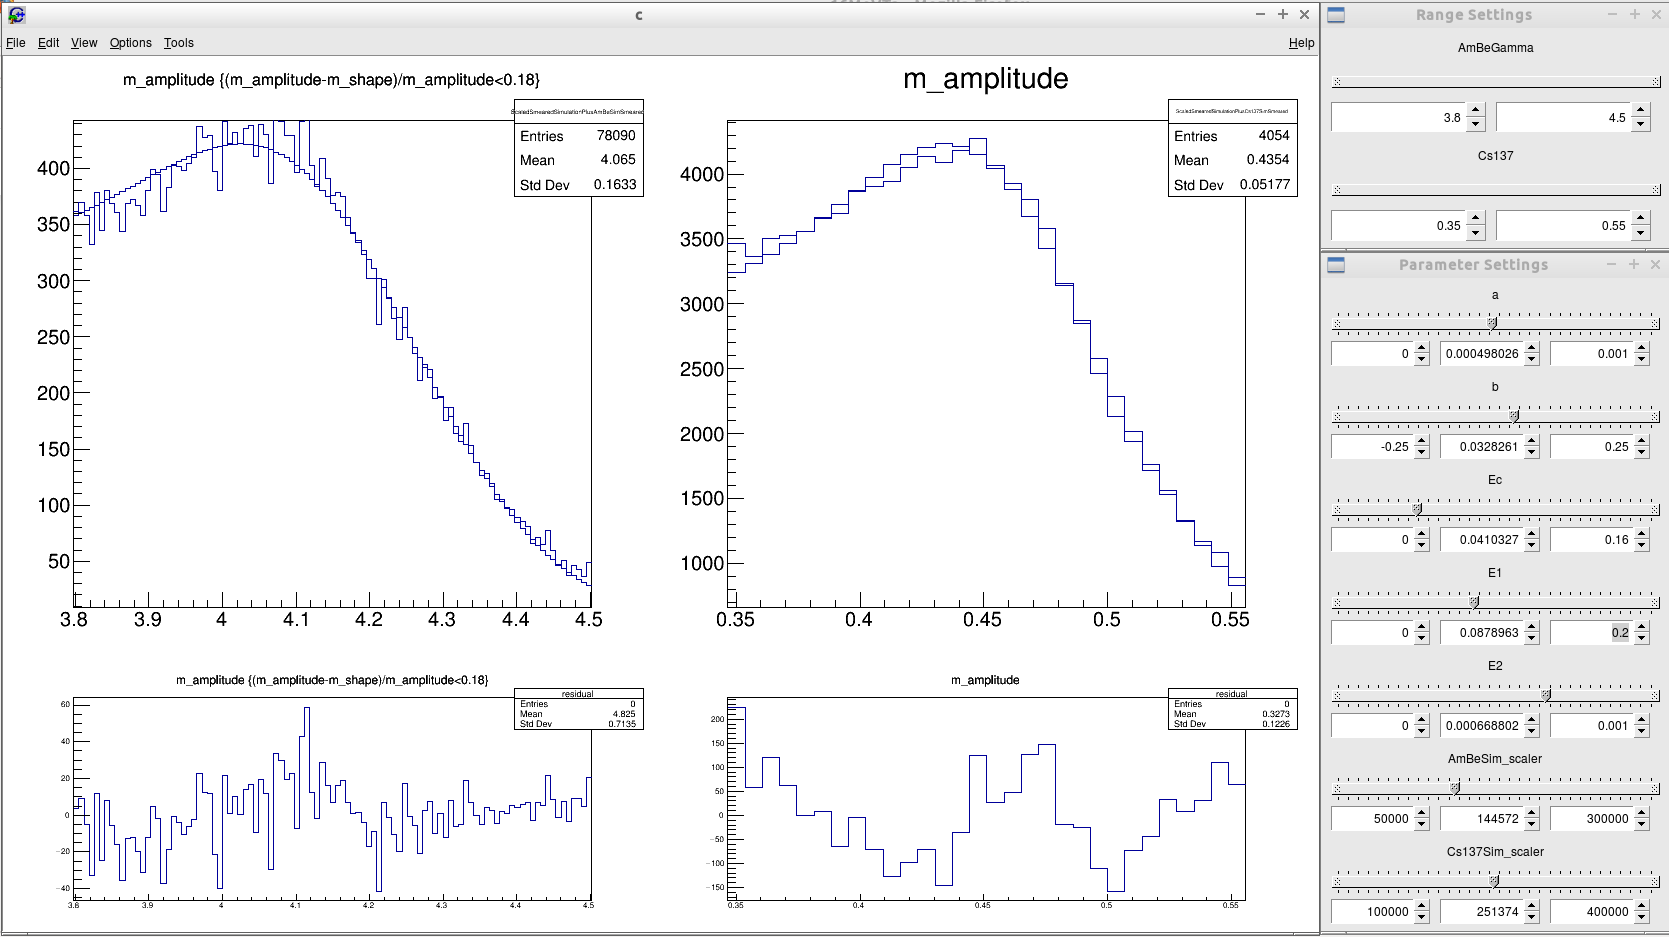
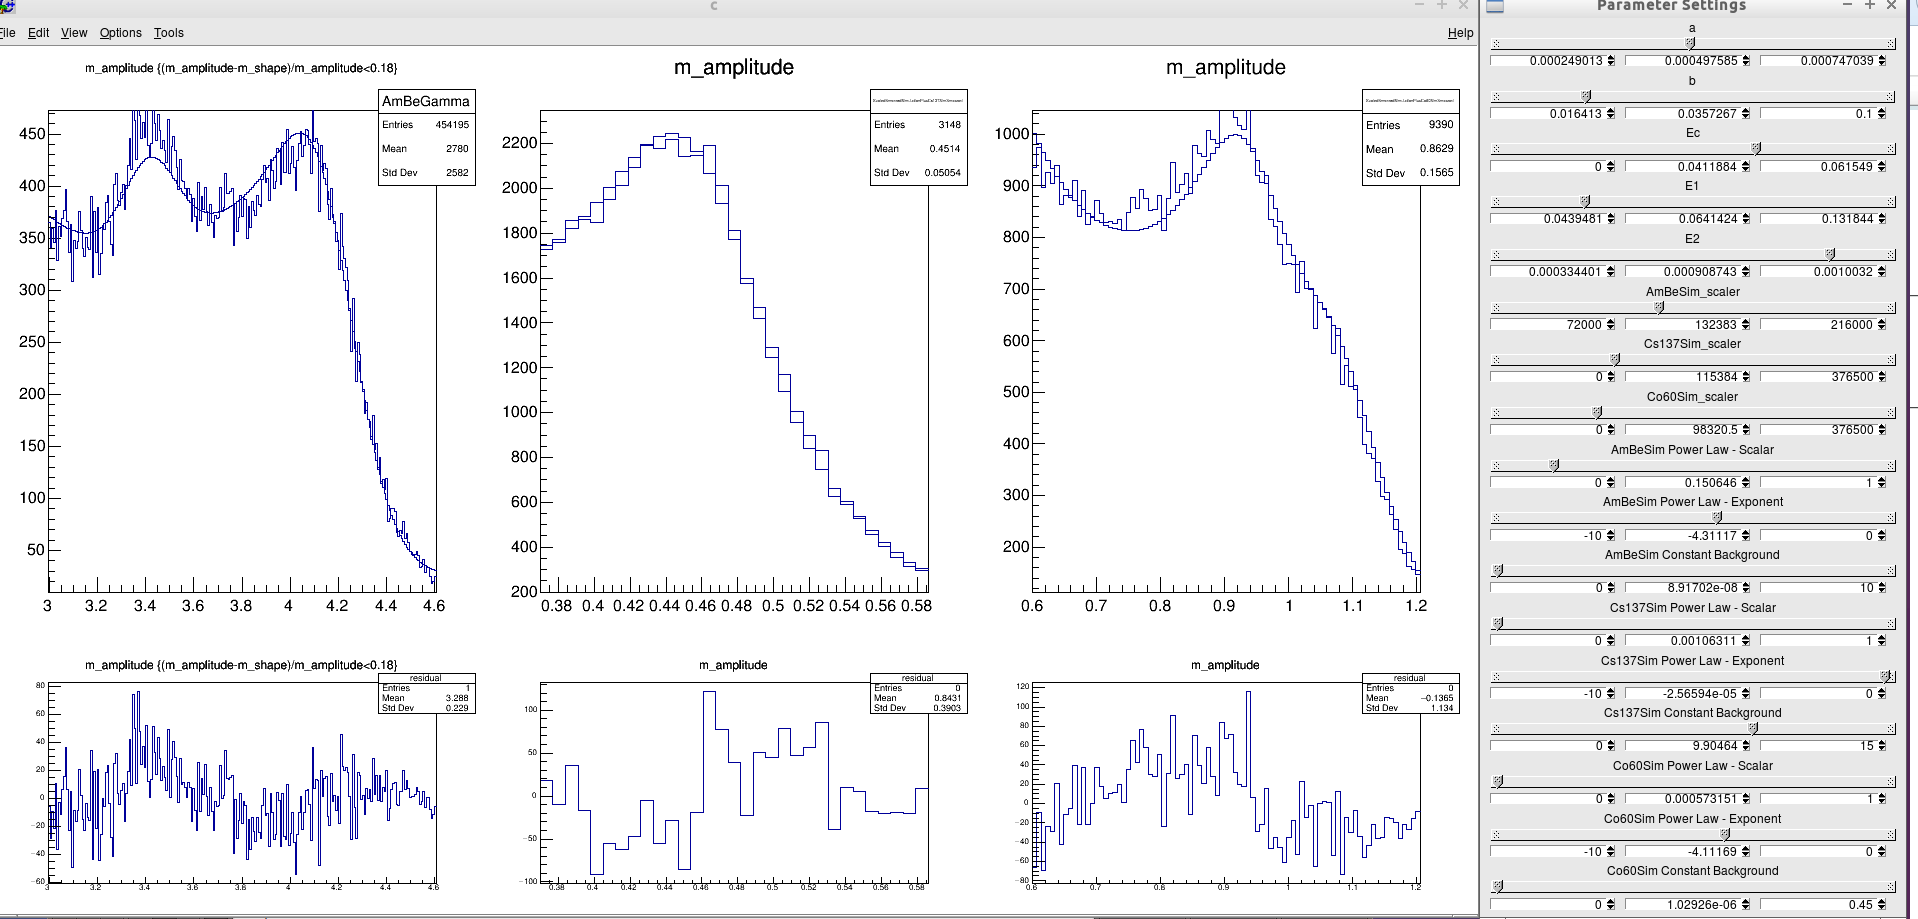
Updated calibration to include power law backgroud

diff --git a/Experiments/PHS/16MeVTa/Calibration/start16MeVTaCalibration_0.cpp b/Experiments/PHS/16MeVTa/Calibration/start16MeVTaCalibration_0.cpp
@@ -3,9 +3,10 @@ MultiDataScintCalibration* startSimCalibration()
   HistogramOperations ops;
   vector<TH1*> dataHists = ops.loadHistograms("CalibData_0.root");
   vector<TH1*> simHists = ops.loadHistograms("Simulation/CalibSim.root");
-  TFile background("Background_002_ls_0.root");
-  TH1* backHist = (TH1*) background.Get("ampHist");
-  cout << "Here" << endl;
+  // vector<TH1*> dataHists = ops.loadHistograms("twoSetTest.root");
+  // vector<TH1*> simHists = ops.loadHistograms("Simulation/twoSimSetTest.root");
+  //TFile background("Background_002_ls_0.root");
+  //TH1* backHist = (TH1*) background.Get("ampHist");
   vector<double> parameters;
   parameters.push_back(4.98026e-04); //a
   parameters.push_back(3.28261e-02); //b
@@ -14,33 +15,37 @@ MultiDataScintCalibration* startSimCalibration()
   parameters.push_back(6.68802e-04); //E2
   parameters.push_back(1.44e5); //Calib source 1 scalar
   parameters.push_back(2.51e5); //Calib source 2 scalar
+  parameters.push_back(2.51e5); //Calib source 3 scalar
 
-  // parameters.push_back(0.3); //Calib source 1 power law scalar
-  // parameters.push_back(-4.8); //Calib source 1 power law exp
-  // parameters.push_back(4.8); //Calib source 1 power law const
-  // parameters.push_back(0.0005); //Calib source 2 power law scalar 
-  // parameters.push_back(-1.7); //Calib source 2 power law exp 
-  // parameters.push_back(0.3); //Calib source 2 power law const
+  parameters.push_back(0.3); //Calib source 1 power law scalar
+  parameters.push_back(-4.8); //Calib source 1 power law exp
+  parameters.push_back(4.8); //Calib source 1 power law const
+  parameters.push_back(0.0005); //Calib source 2 power law scalar 
+  parameters.push_back(-1.7); //Calib source 2 power law exp 
+  parameters.push_back(0.3); //Calib source 2 power law const
+  parameters.push_back(0.0005); //Calib source 3 power law scalar 
+  parameters.push_back(-1.7); //Calib source 3 power law exp 
+  parameters.push_back(0.3); //Calib source 3 power law const
 
-  parameters.push_back(0.5); //Calib source 1 background scalar
-  parameters.push_back(0.5); //Calib source 2 background scalar
+  //parameters.push_back(0.5); //Calib source 1 background scalar
+  //parameters.push_back(0.5); //Calib source 2 background scalar
 
   //Standard call without background 
   //MultiDataScintCalibration* calibClass = new MultiDataScintCalibration(dataHists,simHists,parameters,0.5);
   
   //Call to use power law background subtraction; add 3 params each above
-  //MultiDataScintCalibration* calibClass = new MultiDataScintCalibration(dataHists,simHists,parameters,0.5,true);
+  MultiDataScintCalibration* calibClass = new MultiDataScintCalibration(dataHists,simHists,parameters,0.5,true);
   
   // Call to use measured background subtraction; add 1 param each for calib source
-  MultiDataScintCalibration* calibClass = new MultiDataScintCalibration(dataHists,simHists,parameters,0.5,false,backHist);
+  //MultiDataScintCalibration* calibClass = new MultiDataScintCalibration(dataHists,simHists,parameters,0.5,false,backHist);
   return calibClass;
 }
 
 MultiDataScintCalibration* startGuessSimCalib()
 {
   HistogramOperations ops;
-  vector<TH1*> dataHists = ops.loadHistograms("Calibration/CalibData_0.root");
-  vector<TH1*> simHists = ops.loadHistograms("Calibration/Simulation/CalibSim.root");
+  vector<TH1*> dataHists = ops.loadHistograms("CalibData_0.root");
+  vector<TH1*> simHists = ops.loadHistograms("Simulation/CalibSim.root");
 
   MultiDataScintCalibration* calibClass = new MultiDataScintCalibration(dataHists,simHists);
   return calibClass;
